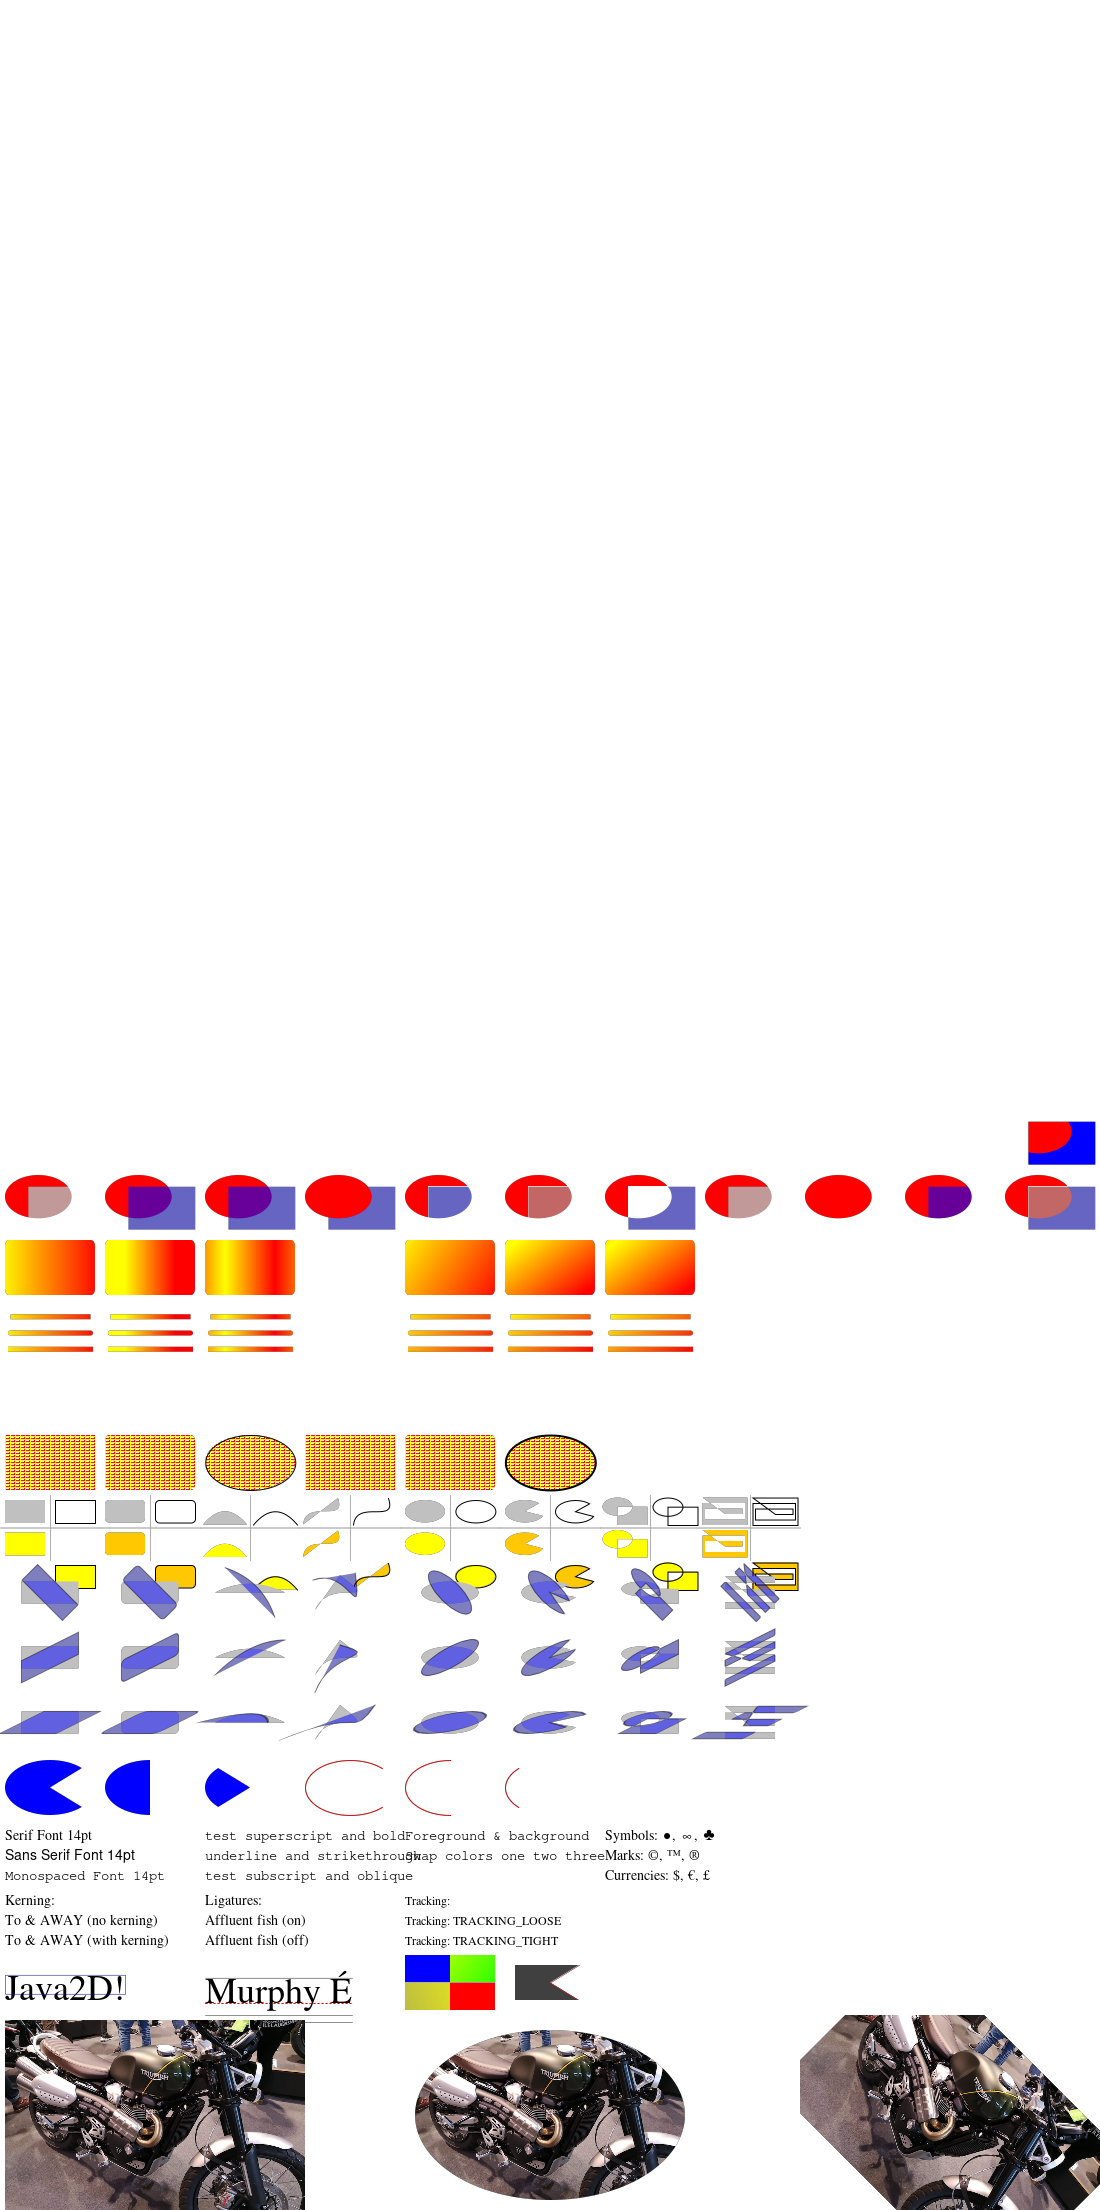
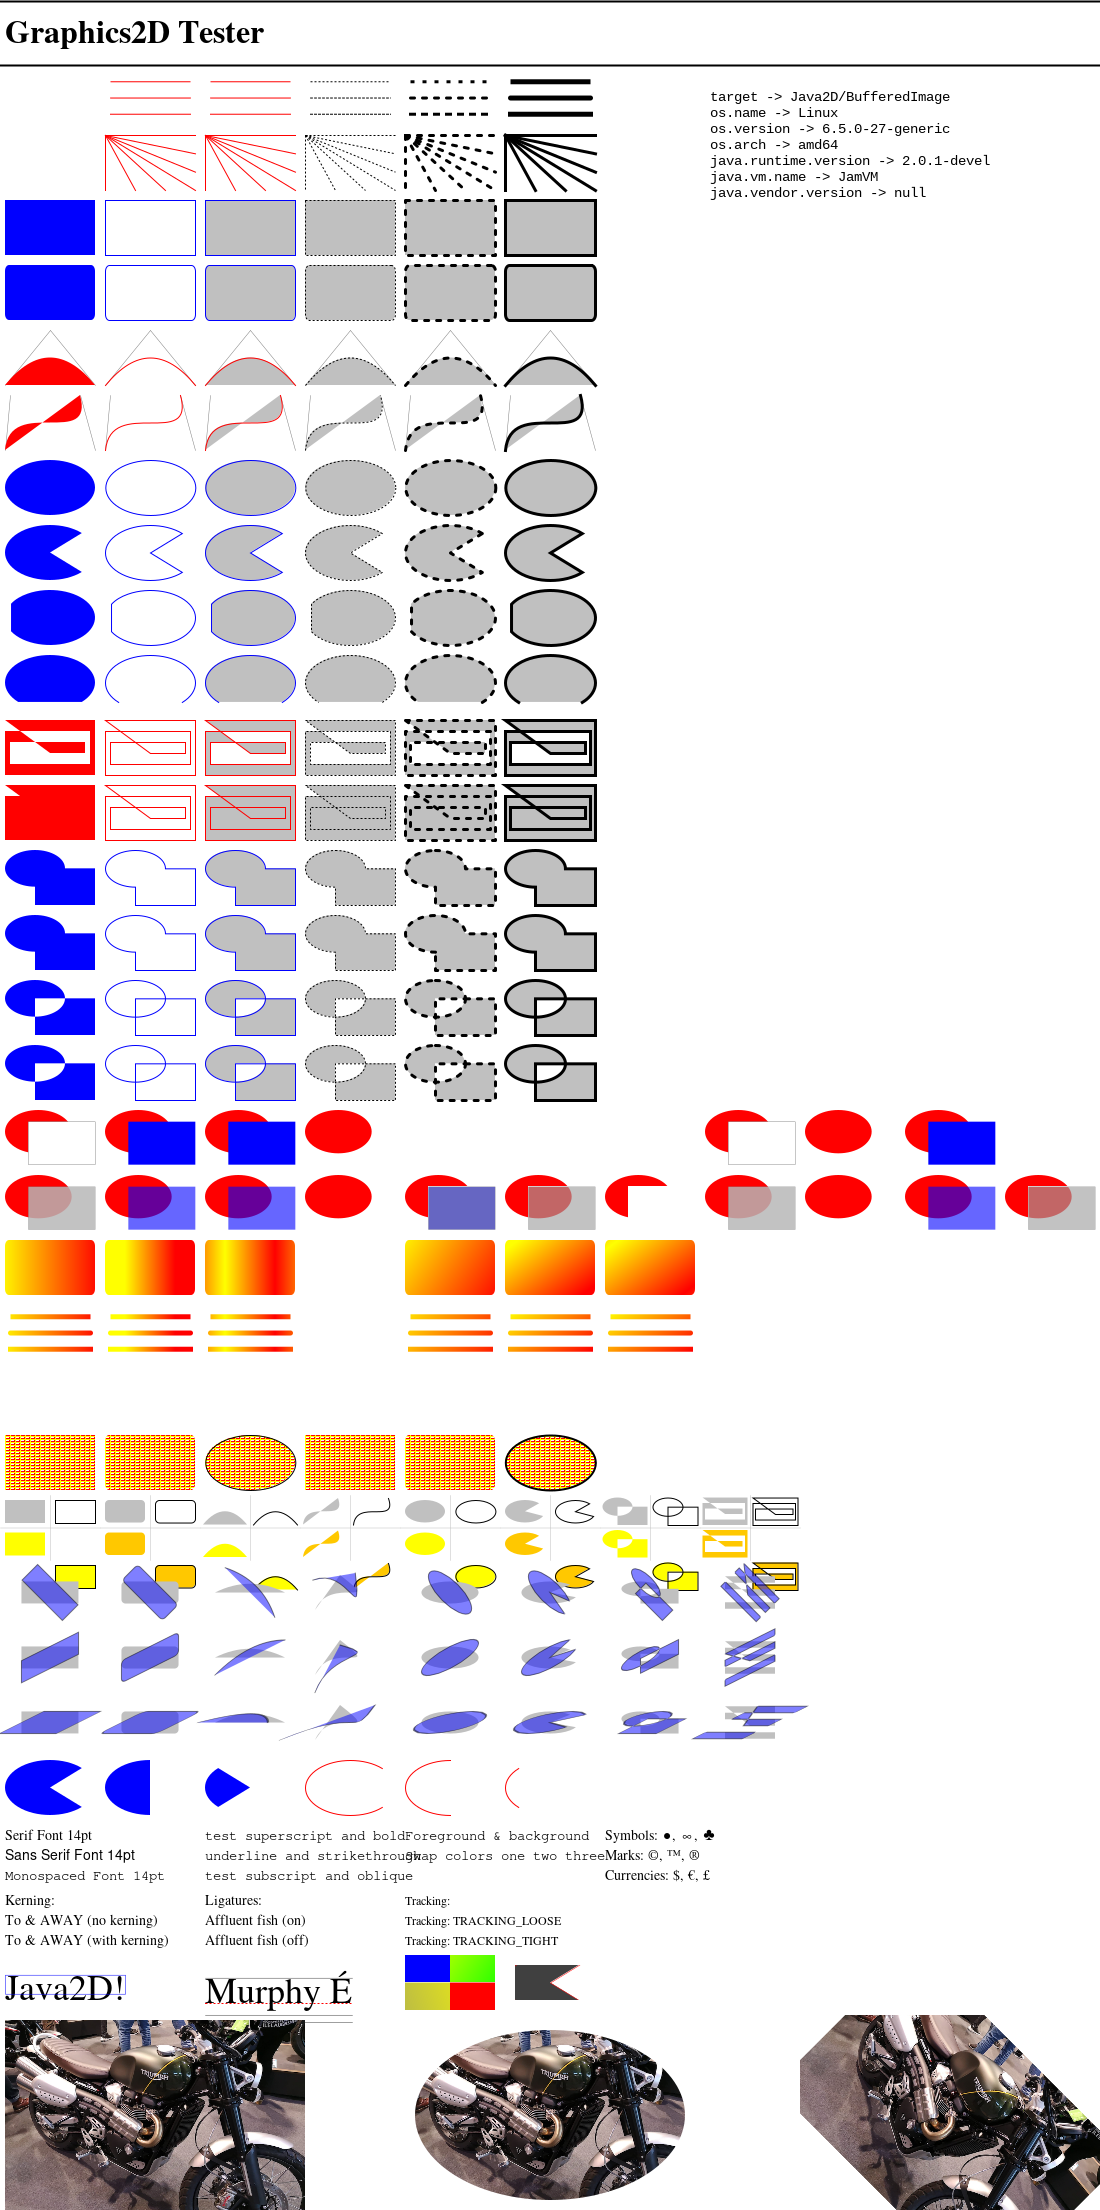
commented what paints previous canvas to transparent

diff --git a/g2d-core/src/main/java/org/jfree/graphics2d/Tester.java b/g2d-core/src/main/java/org/jfree/graphics2d/Tester.java
@@ -545,20 +545,20 @@ public class Tester {
         ShapeTests.drawShapesWithAlphaComposite(g2, AlphaComposite.SrcOver, new Rectangle2D.Double(0.0, 0.0, TILE_WIDTH, TILE_HEIGHT), 5.0);
         moveTo(3, row, g2);
         ShapeTests.drawShapesWithAlphaComposite(g2, AlphaComposite.DstOver, new Rectangle2D.Double(0.0, 0.0, TILE_WIDTH, TILE_HEIGHT), 5.0);
-        moveTo(4, row, g2);
-        ShapeTests.drawShapesWithAlphaComposite(g2, AlphaComposite.SrcIn, new Rectangle2D.Double(0.0, 0.0, TILE_WIDTH, TILE_HEIGHT), 5.0);
-        moveTo(5, row, g2);
-        ShapeTests.drawShapesWithAlphaComposite(g2, AlphaComposite.DstIn, new Rectangle2D.Double(0.0, 0.0, TILE_WIDTH, TILE_HEIGHT), 5.0);
-        moveTo(6, row, g2);
-        ShapeTests.drawShapesWithAlphaComposite(g2, AlphaComposite.SrcOut, new Rectangle2D.Double(0.0, 0.0, TILE_WIDTH, TILE_HEIGHT), 5.0);
+//        moveTo(4, row, g2);
+//        ShapeTests.drawShapesWithAlphaComposite(g2, AlphaComposite.SrcIn, new Rectangle2D.Double(0.0, 0.0, TILE_WIDTH, TILE_HEIGHT), 5.0);
+//        moveTo(5, row, g2);
+//        ShapeTests.drawShapesWithAlphaComposite(g2, AlphaComposite.DstIn, new Rectangle2D.Double(0.0, 0.0, TILE_WIDTH, TILE_HEIGHT), 5.0);
+//        moveTo(6, row, g2);
+//        ShapeTests.drawShapesWithAlphaComposite(g2, AlphaComposite.SrcOut, new Rectangle2D.Double(0.0, 0.0, TILE_WIDTH, TILE_HEIGHT), 5.0);
         moveTo(7, row, g2);
         ShapeTests.drawShapesWithAlphaComposite(g2, AlphaComposite.DstOut, new Rectangle2D.Double(0.0, 0.0, TILE_WIDTH, TILE_HEIGHT), 5.0);
         moveTo(8, row, g2);
         ShapeTests.drawShapesWithAlphaComposite(g2, AlphaComposite.Dst, new Rectangle2D.Double(0.0, 0.0, TILE_WIDTH, TILE_HEIGHT), 5.0);
         moveTo(9, row, g2);
         ShapeTests.drawShapesWithAlphaComposite(g2, AlphaComposite.SrcAtop, new Rectangle2D.Double(0.0, 0.0, TILE_WIDTH, TILE_HEIGHT), 5.0);
-        moveTo(10, row, g2);
-        ShapeTests.drawShapesWithAlphaComposite(g2, AlphaComposite.DstAtop, new Rectangle2D.Double(0.0, 0.0, TILE_WIDTH, TILE_HEIGHT), 5.0);
+//        moveTo(10, row, g2);
+//        ShapeTests.drawShapesWithAlphaComposite(g2, AlphaComposite.DstAtop, new Rectangle2D.Double(0.0, 0.0, TILE_WIDTH, TILE_HEIGHT), 5.0);
 
         row++;  // ***** ALPHACOMPOSITE
         // show a set of tiles with standard AlphaComposite settings

diff --git a/g2d-core/src/main/java/org/jfree/graphics2d/ShapeTests.java b/g2d-core/src/main/java/org/jfree/graphics2d/ShapeTests.java
@@ -18,7 +18,6 @@ import java.awt.geom.CubicCurve2D;
 import java.awt.geom.Ellipse2D;
 import java.awt.geom.GeneralPath;
 import java.awt.geom.Line2D;
-import java.awt.geom.GeneralPath;
 import java.awt.geom.Point2D;
 import java.awt.geom.QuadCurve2D;
 import java.awt.geom.Rectangle2D;
